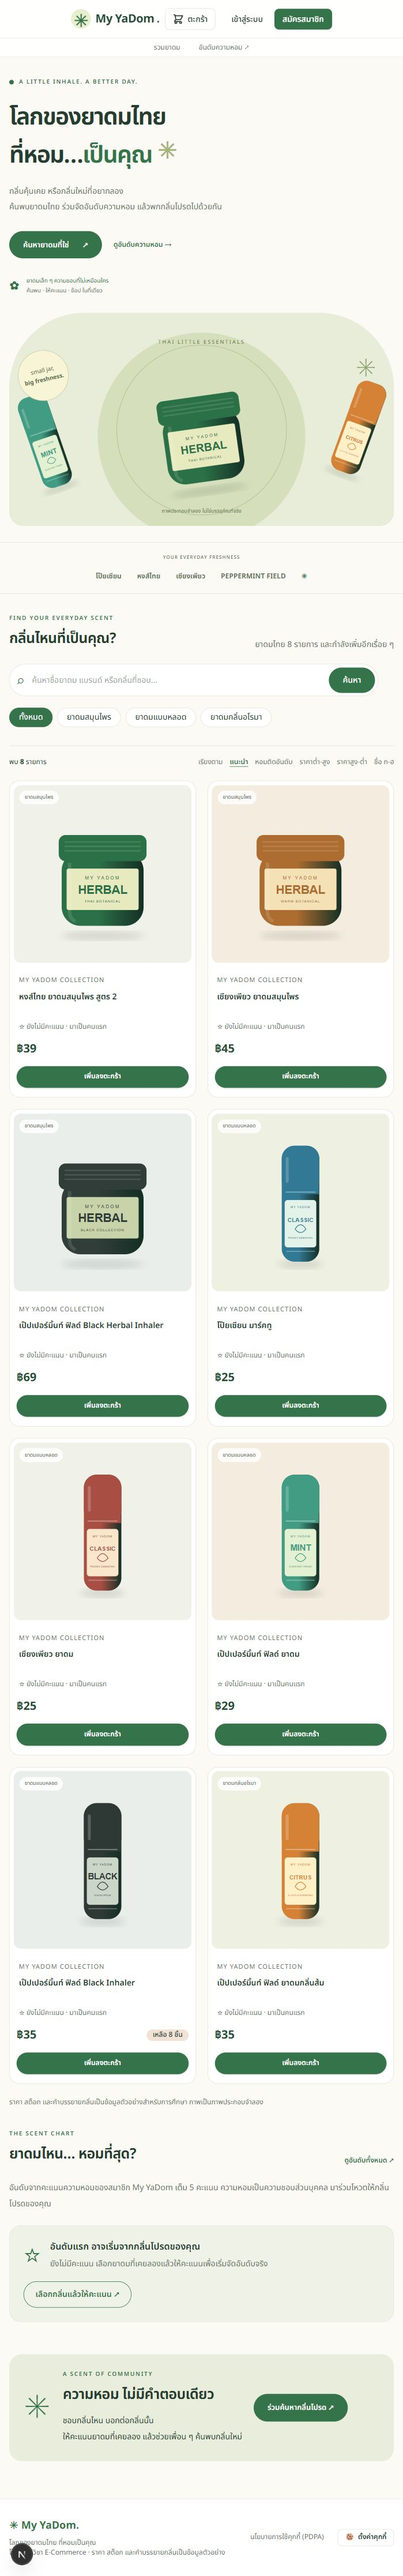
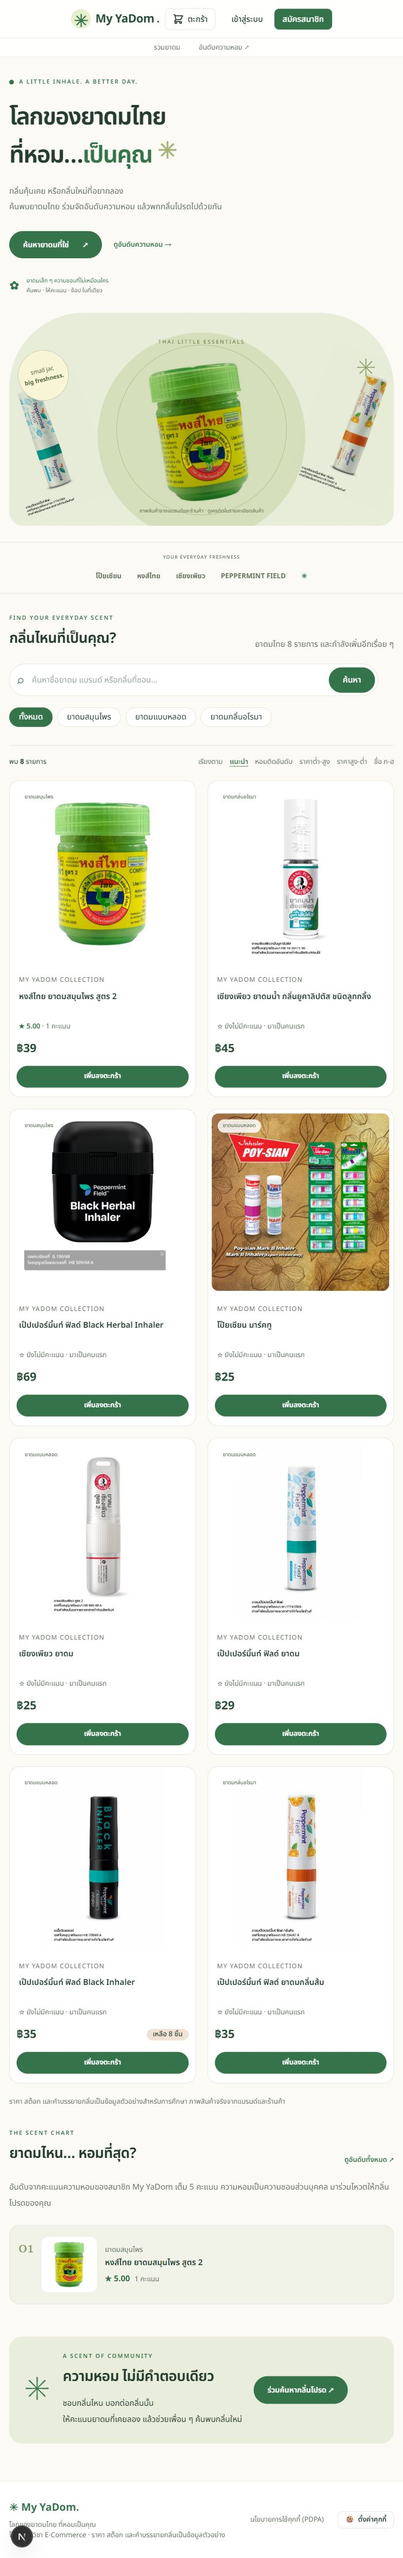
Add real inhaler product photos with source credits and safe photo updates

diff --git a/src/app/page.tsx b/src/app/page.tsx
@@ -33,14 +33,14 @@ export default async function CatalogPage(props: PageProps<"/">) {
             <div className="mt-7 flex flex-wrap items-center gap-5"><Link href="#catalog" className="primary-pill">ค้นหายาดมที่ใช่ <span aria-hidden>↗</span></Link><Link href="/rankings" className="text-link">ดูอันดับความหอม →</Link></div>
             <div className="hero-note"><span className="text-xl" aria-hidden>✿</span><p>ยาดมเล็ก ๆ ความชอบที่ไม่เหมือนใคร<br /><span>ค้นพบ · ให้คะแนน · ช้อป ในที่เดียว</span></p></div>
           </div>
-          <div className="hero-art" aria-label="ภาพวาดยาดมหลากสไตล์">
+          <div className="hero-art" aria-label="ภาพยาดมจริงหลากสไตล์">
             <span className="art-orbit" /><span className="art-spark" aria-hidden>✳</span>
             <span className="art-tag">THAI LITTLE ESSENTIALS</span>
-            <div className="art-bottle art-bottle-left"><ProductImage categoryId={1} imageUrl="/products/tube-mint.svg" alt="ภาพประกอบยาดมแบบหลอด" className="h-full w-full" /></div>
-            <div className="art-bottle art-bottle-center"><ProductImage categoryId={1} imageUrl="/products/herbal-green.svg" alt="ภาพประกอบยาดมสมุนไพร" className="h-full w-full" /></div>
-            <div className="art-bottle art-bottle-right"><ProductImage categoryId={1} imageUrl="/products/tube-orange.svg" alt="ภาพประกอบยาดมอโรมา" className="h-full w-full" /></div>
+            <div className="art-bottle art-bottle-left"><ProductImage categoryId={1} imageUrl="/products/photos/peppermint-original.jpg" alt="ยาดมเป๊ปเปอร์มิ้นท์ ฟิลด์" className="h-full w-full" /></div>
+            <div className="art-bottle art-bottle-center"><ProductImage categoryId={1} imageUrl="/products/photos/hongthai-formula-2.jpg" alt="ยาดมสมุนไพรหงส์ไทย สูตร 2" className="h-full w-full" /></div>
+            <div className="art-bottle art-bottle-right"><ProductImage categoryId={1} imageUrl="/products/photos/peppermint-orange.jpg" alt="ยาดมเป๊ปเปอร์มิ้นท์ ฟิลด์ กลิ่นส้ม" className="h-full w-full" /></div>
             <span className="art-sticker">small jar,<br /><strong>big freshness.</strong></span>
-            <span className="art-caption">ภาพประกอบจำลอง ไม่ใช่บรรจุภัณฑ์จริง</span>
+            <span className="art-caption">ภาพสินค้าจากแบรนด์และร้านค้า · ดูเครดิตในรายละเอียดสินค้า</span>
           </div>
         </section>
         <div className="brand-strip"><span>YOUR EVERYDAY FRESHNESS</span><span>โป๊ยเซียน</span><span>หงส์ไทย</span><span>เซียงเพียว</span><span>PEPPERMINT FIELD</span><span className="text-brand" aria-hidden>✳</span></div>
@@ -61,7 +61,7 @@ export default async function CatalogPage(props: PageProps<"/">) {
             <nav aria-label="เรียงลำดับสินค้า" className="flex flex-wrap items-center gap-3"><span className="text-ink-soft">เรียงตาม</span>{SORT_OPTIONS.map((option) => <Link key={option.key} href={`${catalogHref({ q, category: activeCategory?.id, sort: option.key })}#catalog`} aria-current={sort === option.key ? "true" : undefined} className={sort === option.key ? "font-semibold text-brand underline underline-offset-4" : "text-ink-soft hover:text-brand"}>{option.label}</Link>)}</nav>
           </div>
           {products.length ? <ul className="mt-6 grid grid-cols-2 gap-3 sm:gap-5 lg:grid-cols-4">{products.map((product) => <ProductCard key={product.id} product={product} />)}</ul> : <div className="my-6 rounded-2xl border border-dashed border-line p-12 text-center"><h3 className="font-semibold">ยังไม่พบกลิ่นที่ค้นหา</h3><p className="mt-2 text-sm text-ink-soft">ลองใช้ชื่อแบรนด์ หรือเลือกหมวดหมู่อื่น</p><Link href="/#catalog" className="mt-5 inline-block text-sm text-brand underline">ดูยาดมทั้งหมด</Link></div>}
-          <p className="mt-5 text-xs leading-6 text-ink-soft">ราคา สต็อก และคำบรรยายกลิ่นเป็นข้อมูลตัวอย่างสำหรับการศึกษา ภาพเป็นภาพประกอบจำลอง</p>
+          <p className="mt-5 text-xs leading-6 text-ink-soft">ราคา สต็อก และคำบรรยายกลิ่นเป็นข้อมูลตัวอย่างสำหรับการศึกษา ภาพสินค้าจริงจากแบรนด์และร้านค้า</p>
         </section>
         {!filtered && <><RankingSection products={allProducts} /><section className="community-banner"><span className="community-flower" aria-hidden>✳</span><div><p className="eyebrow">A SCENT OF COMMUNITY</p><h2>ความหอม ไม่มีคำตอบเดียว</h2><p className="mt-3 text-sm leading-7">ชอบกลิ่นไหน บอกต่อกลิ่นนั้น<br />ให้คะแนนยาดมที่เคยลอง แล้วช่วยเพื่อน ๆ ค้นพบกลิ่นใหม่</p></div><Link href="/rankings" className="primary-pill">ร่วมค้นหากลิ่นโปรด ↗</Link></section></>}
       </div>

diff --git a/src/app/products/[id]/page.tsx b/src/app/products/[id]/page.tsx
@@ -10,6 +10,7 @@ import { getProduct } from "@/lib/products";
 import { getCurrentUser } from "@/lib/auth";
 import { getMyReview, listReviews } from "@/lib/reviews";
 import ReviewForm from "@/components/ReviewForm";
+import photoSources from "../../../../public/products/photos/sources.json";
 
 export const dynamic = "force-dynamic";
 
@@ -29,6 +30,7 @@ export default async function ProductPage(props: PageProps<"/products/[id]">) {
   const product = id ? getProduct(id) : undefined;
   if (!product) notFound();
 
+  const photoSource = photoSources.find((photo) => photo.file === product.image_url);
   const status = stockStatus(product);
   const user = await getCurrentUser();
   const reviews = listReviews(product.id);
@@ -47,12 +49,20 @@ export default async function ProductPage(props: PageProps<"/products/[id]">) {
       </nav>
 
       <div className="mt-4 grid gap-8 md:grid-cols-2">
-        <ProductImage
-          categoryId={product.category_id}
-          imageUrl={product.image_url}
-          alt={product.name}
-          className="aspect-square w-full rounded-xl border border-line"
-        />
+        <div>
+          <ProductImage
+            categoryId={product.category_id}
+            imageUrl={product.image_url}
+            alt={product.name}
+            className="aspect-square w-full rounded-xl border border-line bg-white"
+          />
+          {photoSource && (
+            <p className="mt-3 text-xs leading-6 text-ink-soft">
+              ภาพสินค้า: <a href={photoSource.sourcePage} target="_blank" rel="noopener noreferrer" className="text-brand underline">{photoSource.credit}</a>
+              <br />ภาพอาจแสดงสีหรือบรรจุภัณฑ์หลายแบบ ราคาต่อสินค้า 1 ชิ้น
+            </p>
+          )}
+        </div>
 
         <div>
           <p className="text-sm text-ink-soft">{product.category_name}</p>
@@ -70,7 +80,7 @@ export default async function ProductPage(props: PageProps<"/products/[id]">) {
           <h2 className="mt-6 font-semibold">รายละเอียดสินค้า</h2>
           <p className="mt-1 max-w-prose leading-relaxed text-ink-soft">{product.description}</p>
           <p className="mt-4 text-sm text-brand">{product.review_count ? `★ ${product.average_rating?.toFixed(2)} / 5 จาก ${product.review_count} คะแนนความหอม` : "☆ ยังไม่มีคะแนนความหอม มาเป็นคนแรกที่รีวิว"}</p>
-          <p className="mt-3 text-xs leading-6 text-ink-soft">ราคา สต็อก และคำบรรยายกลิ่นเป็นข้อมูลตัวอย่าง ภาพประกอบไม่ใช่บรรจุภัณฑ์จริง</p>
+          <p className="mt-3 text-xs leading-6 text-ink-soft">ราคา สต็อก และคำบรรยายกลิ่นเป็นข้อมูลตัวอย่าง บรรจุภัณฑ์อาจเปลี่ยนตามรุ่นการผลิต</p>
 
           <div className="mt-8">
             <AddToCartButton

diff --git a/src/components/ProductImage.tsx b/src/components/ProductImage.tsx
@@ -1,4 +1,7 @@
 /* eslint-disable @next/next/no-img-element */
+"use client";
+
+import { useState } from "react";
 
 // แต่ละหมวดมีสีของตัวเอง ใช้กับภาพขวด placeholder ตอนที่สินค้ายังไม่มี image_url
 const PALETTE = [
@@ -17,8 +20,9 @@ type Props = {
 };
 
 export default function ProductImage({ categoryId, imageUrl, alt, className = "" }: Props) {
-  if (imageUrl) {
-    return <img src={imageUrl} alt={alt} loading="lazy" className={`object-cover ${className}`} />;
+  const [failedUrl, setFailedUrl] = useState<string | null>(null);
+  if (imageUrl && failedUrl !== imageUrl) {
+    return <img src={imageUrl} alt={alt} loading="lazy" onError={() => setFailedUrl(imageUrl)} className={`object-contain ${className}`} />;
   }
 
   const color = PALETTE[(categoryId - 1) % PALETTE.length];

diff --git a/src/app/globals.css b/src/app/globals.css
@@ -53,6 +53,8 @@ button:not(:disabled) { cursor: pointer; }
 .product-card { display: flex; flex-direction: column; overflow: hidden; background: white; border: 1px solid var(--color-line); border-radius: 18px; transition: border-color .2s, box-shadow .2s; }
 .product-card:hover { border-color: #a8ba9b; box-shadow: 0 5px 25px #304d3410; }
 .product-art { position: relative; overflow: hidden; background: #f0f1e8; margin: 7px; border-radius: 12px; }
+.product-art img { background: white; }
+.art-bottle { mix-blend-mode: multiply; }
 .product-card:nth-child(4n+2) .product-art { background: #f4eddf; }
 .product-card:nth-child(4n+3) .product-art { background: #e9eeea; }
 .product-card:nth-child(4n) .product-art { background: #eef0e2; }

diff --git a/README.md b/README.md
@@ -53,7 +53,7 @@ npm run dev
 
 ## ฟีเจอร์
 
-- หน้าแรกและภาพประกอบยาดมในโทนเขียวครีม รองรับมือถือ
+- หน้าแรกโทนเขียวครีมและภาพสินค้าจริงครบ 8 รายการ รองรับมือถือ
 - ค้นหาชื่อ แบรนด์ และคำอธิบาย กรองหมวดสมุนไพร แบบหลอด และอโรมา
 - เรียงตามราคา ชื่อ หรือคะแนนความหอม แชร์ผลการค้นหาผ่าน URL ได้
 - สมาชิกให้คะแนนความหอม 1–5 พร้อมข้อความรีวิวไม่เกิน 500 ตัวอักษร
@@ -72,7 +72,10 @@ npm run dev
 จึงยังไม่อ้างว่าครบทุกชนิดในประเทศไทย เพิ่มแบรนด์และรุ่นต่อผ่านหลังบ้านได้
 
 ชื่อสินค้าอ้างอิงแบรนด์จริง ส่วนราคา สต็อก และคำบรรยายกลิ่นเป็นข้อมูลตัวอย่างสำหรับการเรียน
-ภาพ SVG เป็นภาพประกอบที่สร้างขึ้นเอง ไม่ใช่ภาพบรรจุภัณฑ์จริงหรือหลักฐานรับรองจากแบรนด์
+ภาพสินค้าจริงจัดเก็บใน `public/products/photos/` จากเว็บไซต์แบรนด์ Bertram, Poy-Sian และคลังรูปของ Big C / ALL Online
+แสดงเครดิตและลิงก์ต้นทางในหน้ารายละเอียดสินค้า ดูรายการไฟล์และแหล่งภาพทั้งหมดได้ที่ [sources.json](public/products/photos/sources.json)
+บรรจุภัณฑ์อาจแตกต่างตามรุ่นผลิต ภาพโป๊ยเซียนแสดงหลายสี/บรรจุภัณฑ์ ราคาในเว็บคิดต่อ 1 ชิ้น
+ภาพและเครื่องหมายการค้าเป็นของเจ้าของภาพ/แบรนด์ ไม่ใช่หลักฐานรับรอง My YaDom จากแบรนด์
 คะแนนความหอมเป็นความชอบส่วนบุคคลของสมาชิก
 
 แหล่งอ้างอิงชื่อแบรนด์และรุ่น:
@@ -84,6 +87,16 @@ npm run dev
 
 ระบบสั่งซื้อเป็นตัวอย่างในรายวิชา มีตัวเลือกเก็บเงินปลายทาง/โอนเงินจากงานเดิม
 ยังไม่ได้เชื่อม payment gateway หรือบริษัทขนส่งจริง
+
+## อัปเดตรูปจากเวอร์ชันภาพจำลอง
+
+```bash
+npm run db:photos
+```
+
+คำสั่งนี้เปลี่ยนเฉพาะภาพตัวอย่างเดิม ไม่รีเซ็ตบัญชี คะแนน สต็อก หรือออเดอร์
+`db:migrate:yadom` เรียกการอัปเดตรูปให้อัตโนมัติเช่นกัน ส่วนการติดตั้งใหม่ใช้รูปจริงจาก seed แล้ว
+รายการเซียงเพียวแบบกระปุกในข้อมูลตัวอย่างเดิมปรับเป็นรุ่นยาดมน้ำยูคาลิปตัสชนิดลูกกลิ้งที่มีรูปอ้างอิงตรงรุ่น โดยคงรหัสสินค้าเดิมไว้
 
 ## บัญชีทดสอบจาก seed
 
@@ -109,7 +122,7 @@ npm run test:yadom
 ## เทคโนโลยีและไฟล์สำคัญ
 
 Next.js 16 App Router · TypeScript · Tailwind CSS 4 · SQLite / better-sqlite3
-ฟอนต์ Noto Sans Thai และภาพ SVG อยู่ในโปรเจกต์ ไม่ต้องเรียกบริการฟอนต์หรือรูปภายนอก
+ฟอนต์ Noto Sans Thai และภาพสินค้าอยู่ในโปรเจกต์ ไม่ต้องเรียกบริการฟอนต์หรือรูปภายนอก
 
 | ไฟล์ | หน้าที่ |
 |---|---|
@@ -120,4 +133,5 @@ Next.js 16 App Router · TypeScript · Tailwind CSS 4 · SQLite / better-sqlite3
 | `src/app/actions/reviews.ts` | ตรวจตัวตนและบันทึก/แก้ไขคะแนน |
 | `src/app/rankings/page.tsx` | หน้าอันดับความหอม |
 | `src/components/RankingSection.tsx` | แสดงอันดับและสถานะยังไม่มีคะแนน |
-| `public/products/` | ภาพประกอบยาดม SVG |
+| `public/products/photos/` | รูปสินค้าจริงและรายการเครดิตต้นทาง |
+| `db/update-product-photos.mjs` | อัปเดตรูปตัวอย่างเดิม โดยรักษาข้อมูลสินค้า/คำสั่งซื้อและรูปที่แอดมินตั้งเอง |
